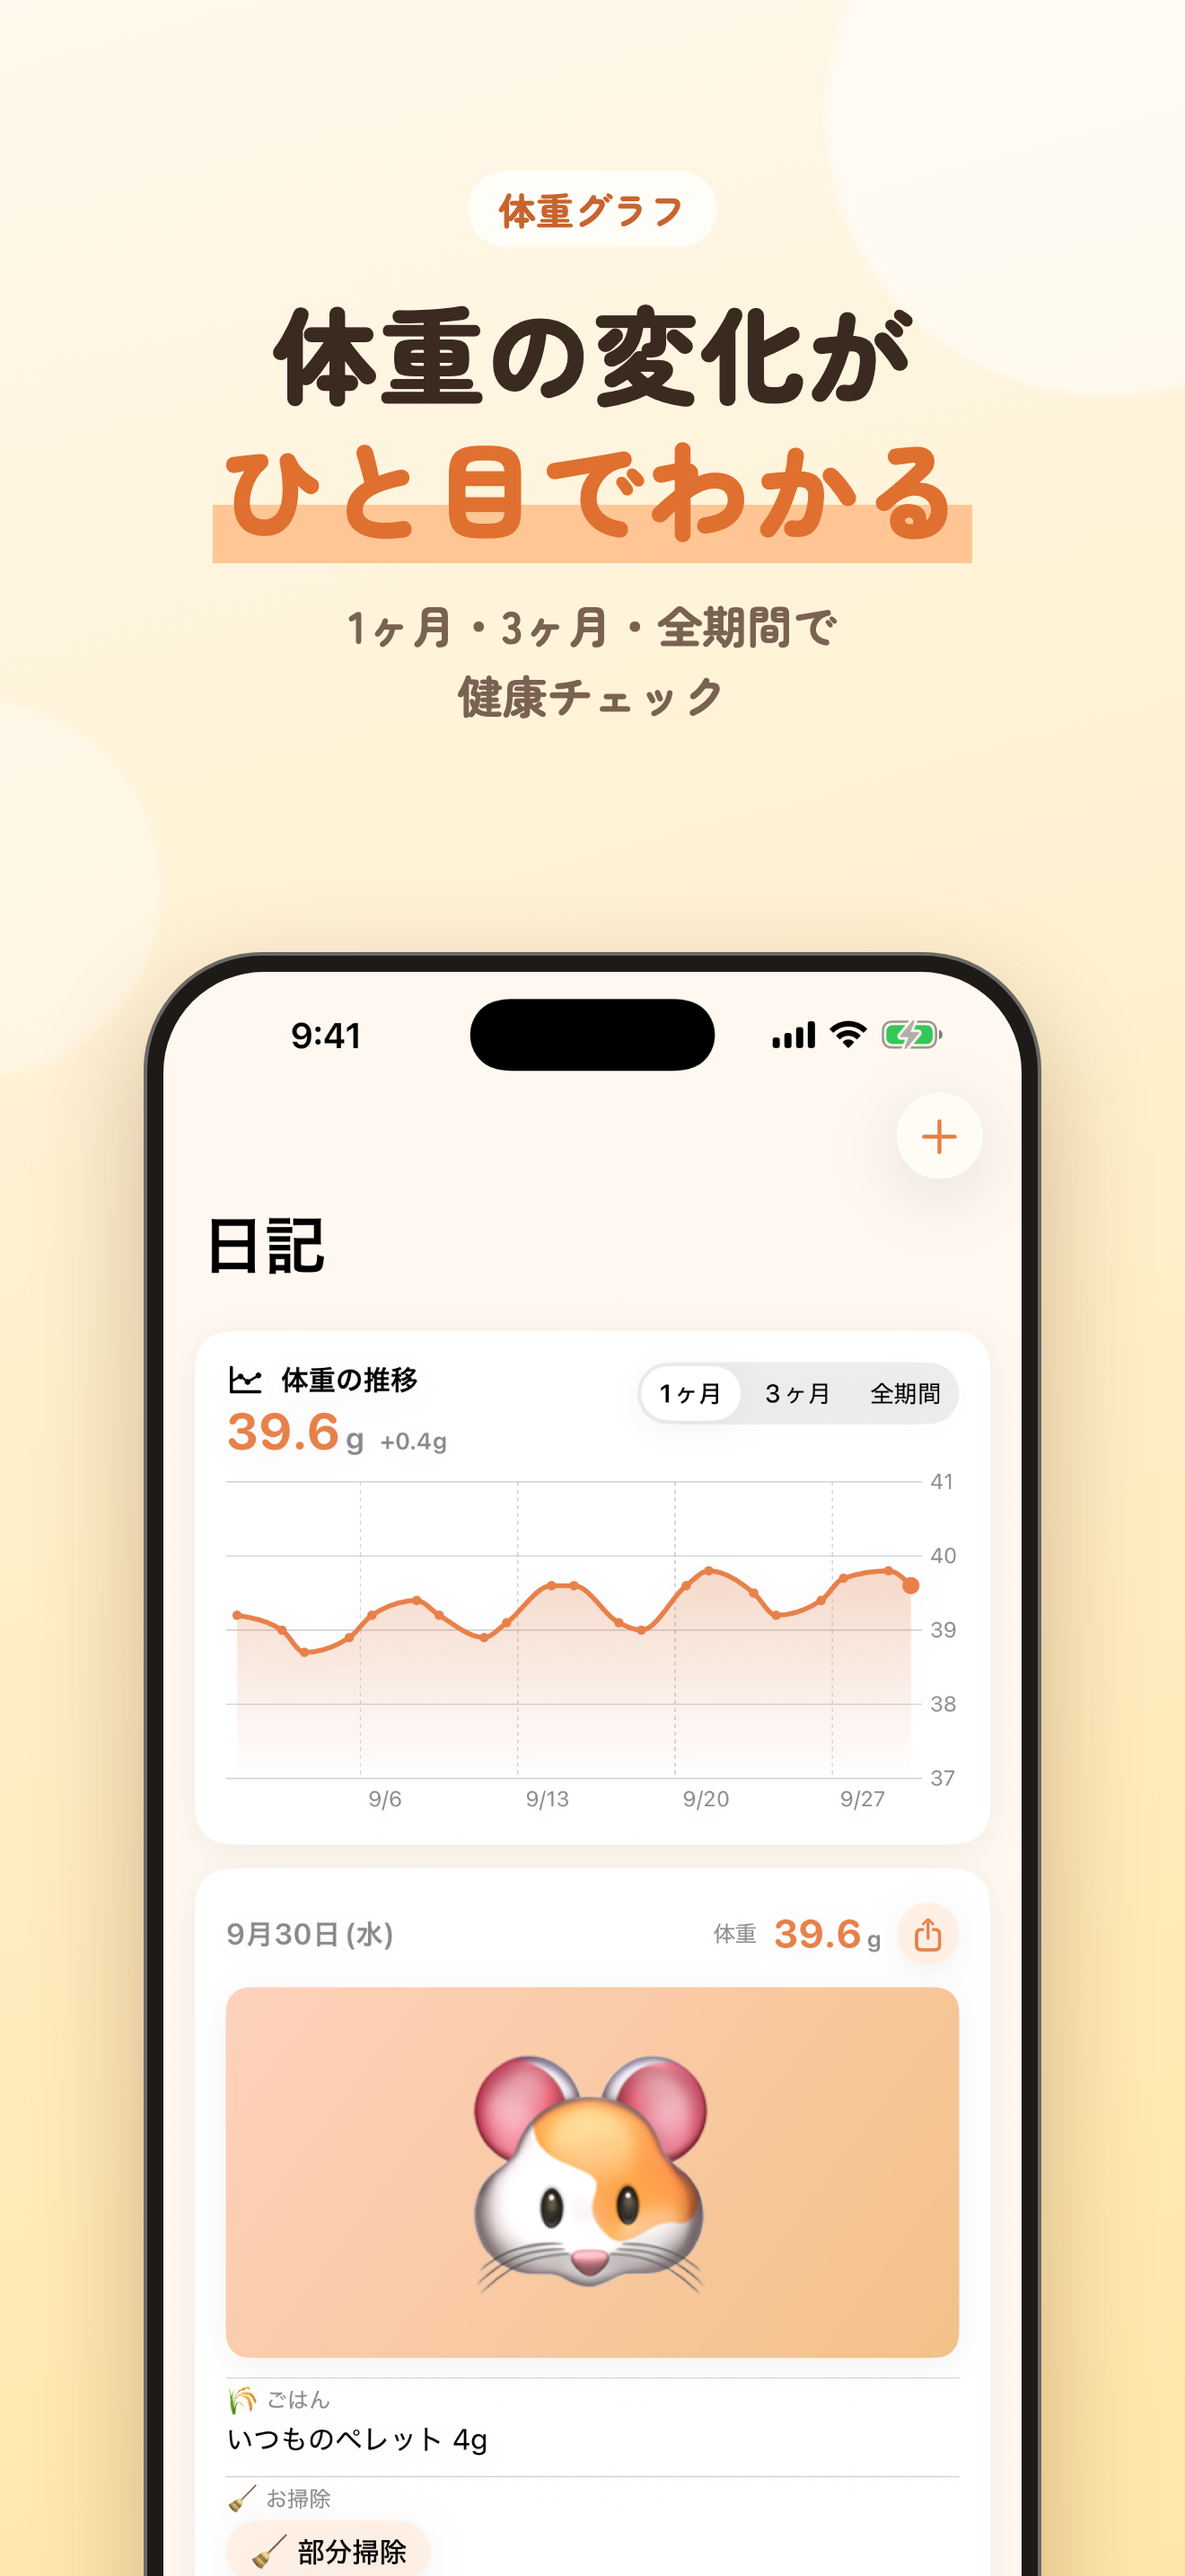
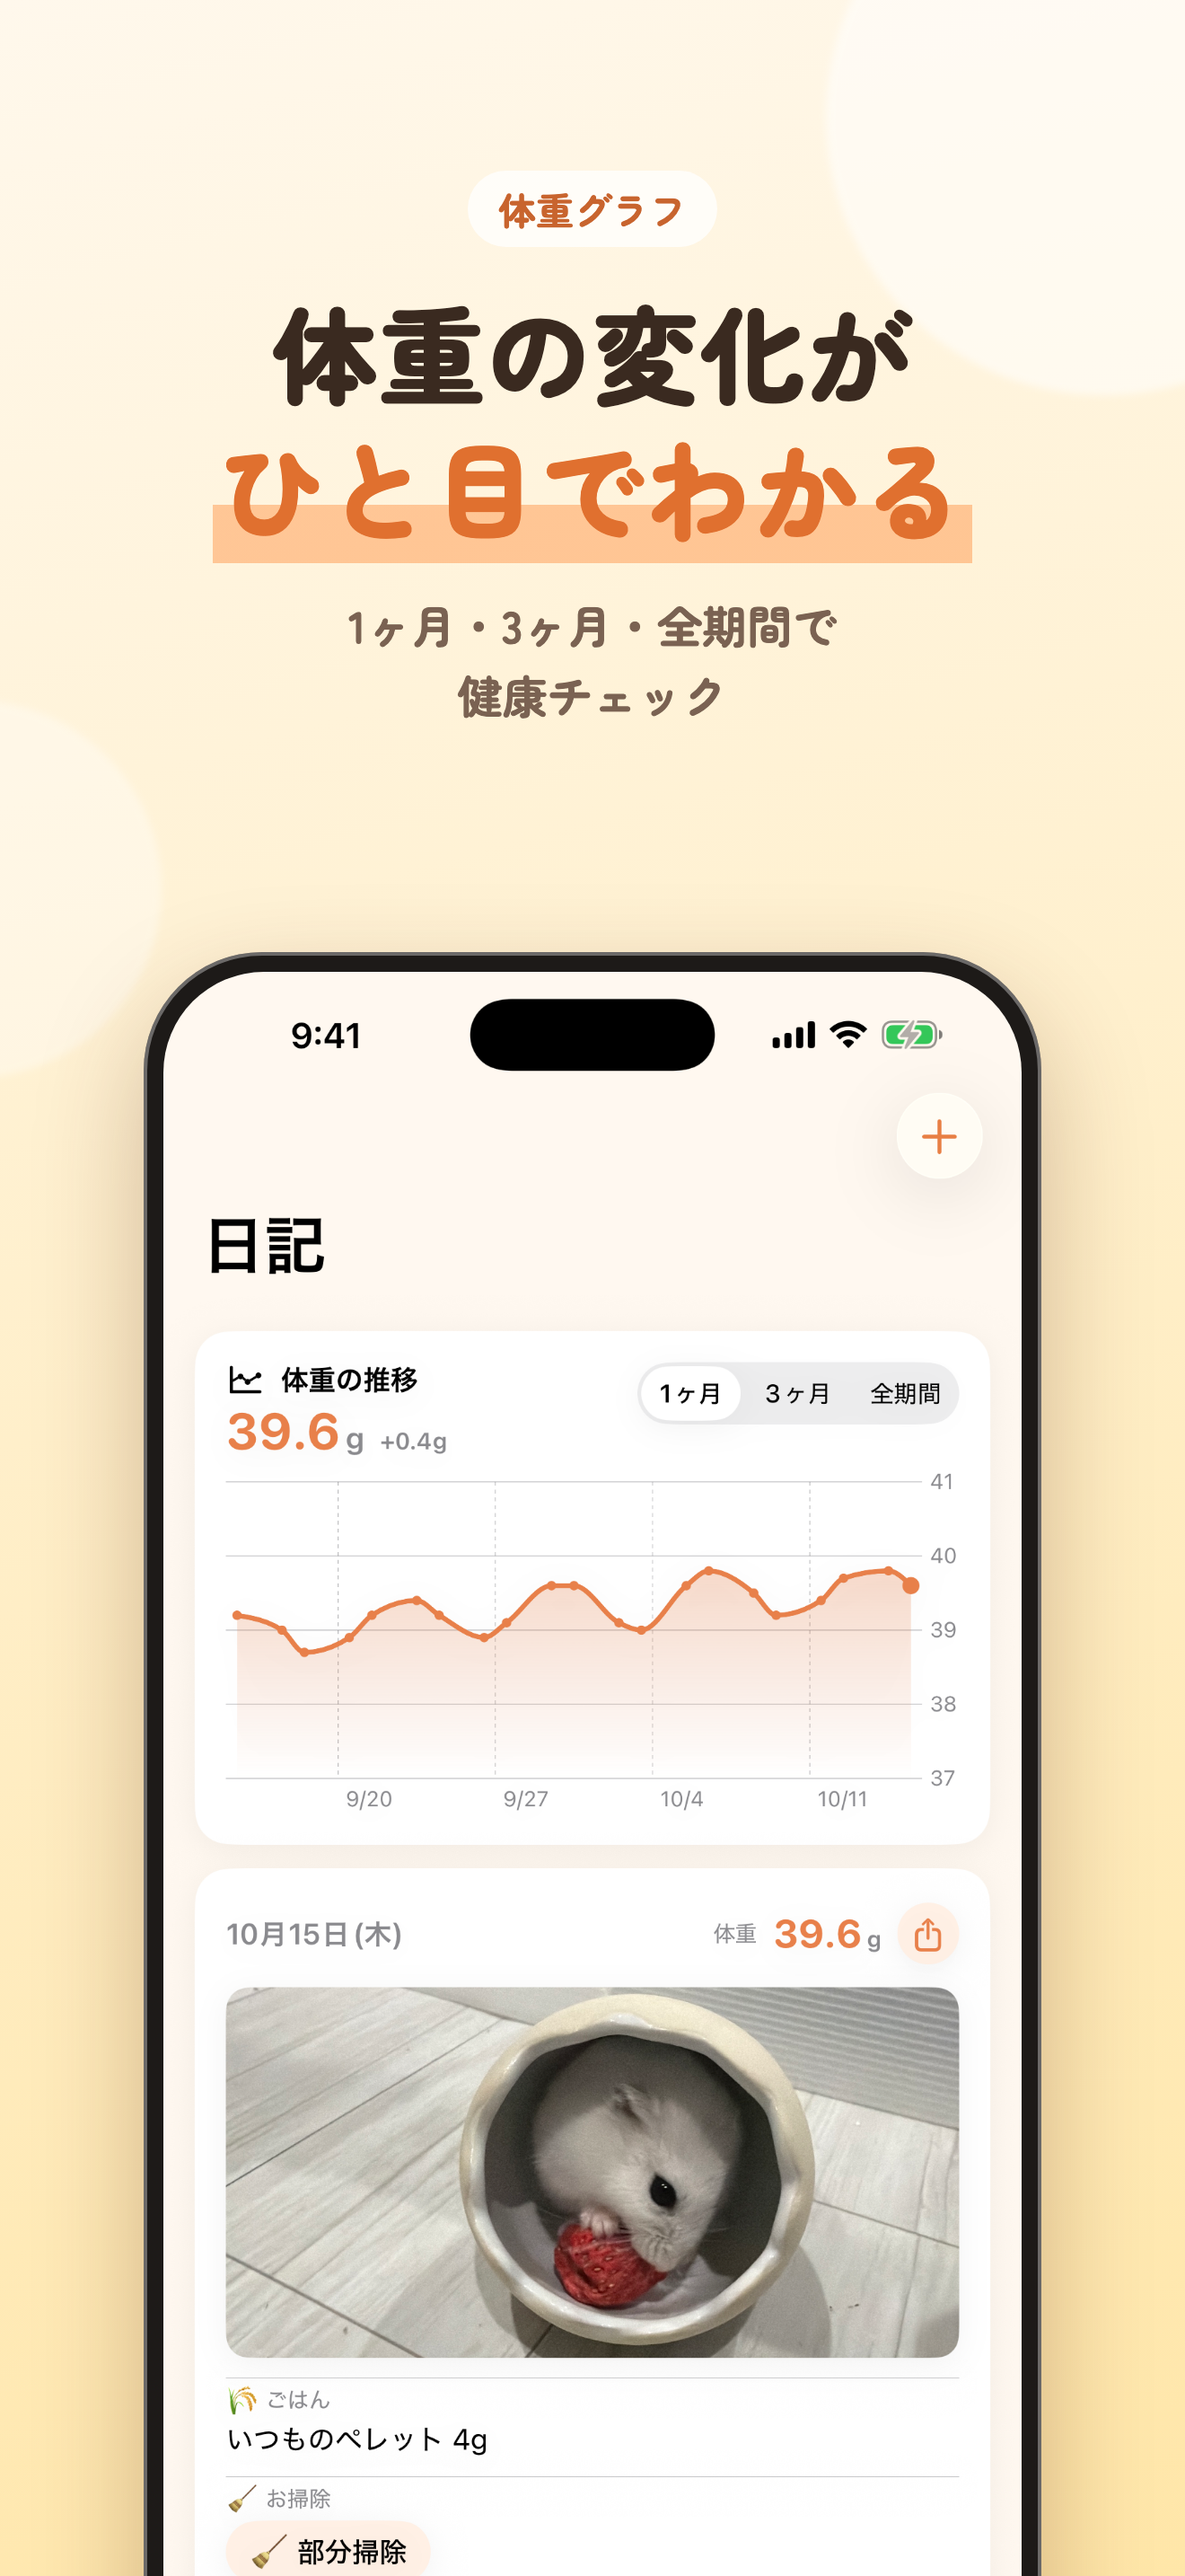
HamuhamuDiary: ストアのスクショを 本物の ハムスターの 写真で 撮りなおす
-demoPhotos で 渡した フォルダの 写真を デモに 使えるようにし、
写真の ある日の メモを 写真に 合わせた。写真は 位置情報を 消して 縮めてある。

Changed region(s): [[0.1864, 0.7448, 0.8076, 0.931], [0.5591, 0.6827, 0.5902, 0.7137], [0.3106, 0.6827, 0.3417, 0.7137]]

diff --git a/Apps/HamuhamuDiary/HamuhamuDiary/Sources/Services/Launch.swift b/Apps/HamuhamuDiary/HamuhamuDiary/Sources/Services/Launch.swift
@@ -16,6 +16,8 @@ enum Launch {
     static var showShareCard: Bool { args.contains("-showShareCard") }
     /// 起動時に選択するタブ（"home" / "diary" / "profile" / "settings"）。
     static var startTab: String? { value(after: "-startTab") }
+    /// デモ写真に使う本物の写真のフォルダ（Mac 側のパス。`Store/screenshots/photos`）。無ければ絵文字の画像で代用する。
+    static var demoPhotos: String? { value(after: "-demoPhotos") }
 
     private static func value(after flag: String) -> String? {
         guard let i = args.firstIndex(of: flag), i + 1 < args.count else { return nil }
@@ -30,6 +32,13 @@ enum Launch {
         "手のひらでお昼寝してくれた😴",
         "はじめて名前を呼んだら出てきた！",
         "", "",
+    ]
+    /// 写真のある日のメモ（`Store/screenshots/photos/memory-N.jpg` の中身に合わせてある）。
+    private static let photoMemos = [
+        0: "いちごをもらってごきげん🍓",
+        4: "ブランケットからひょっこり",
+        9: "おうちでぐっすりお昼寝😴",
+        15: "たまごハウスがお気に入り🥚",
     ]
     private static let foods = ["いつものペレット 4g", "ペレット 4g\nブロッコリー", "シードミックス 5g", "ペレット 4g\nにんじん"]
     private static let cleanings: [[String]] = [["partial"], ["toilet_sand"], [], ["partial", "water_bottle"], [], ["full_wash", "bedding"]]
@@ -47,10 +56,9 @@ enum Launch {
         context.insert(HamsterProfile(
             name: String(localized: "もち"), species: "ジャンガリアンハムスター",
             birthDate: daysAgo(290), welcomeDate: daysAgo(230),
-            photoPath: demoPhoto(named: "demo-avatar", hue: 0.07)
+            photoPath: demoPhoto(named: "demo-avatar", real: "avatar", hue: 0.07)
         ))
 
-        let photoDays: Set<Int> = [0, 4, 9, 15]
         for i in 0..<80 {
             // 少しずつ増えて落ち着く体重カーブ＋小さな揺らぎ。
             let base = 34 + 6 * (1 - exp(-Double(80 - i) / 30))
@@ -60,8 +68,8 @@ enum Launch {
             context.insert(DiaryRecord(
                 key: "demo-\(i)", date: date, weight: i % 3 == 2 ? nil : weight,
                 food: foods[i % foods.count], cleaningKeys: cleanings[i % cleanings.count],
-                memo: memos[i % memos.count],
-                photoPath: photoDays.contains(i) ? demoPhoto(named: "demo-\(i)", hue: 0.05 + Double(i) * 0.01) : nil,
+                memo: photoMemos[i] ?? memos[i % memos.count],
+                photoPath: photoMemos[i] == nil ? nil : demoPhoto(named: "demo-\(i)", real: "memory-\(i)", hue: 0.05 + Double(i) * 0.01),
                 createdAt: created, updatedAt: created
             ))
         }
@@ -73,8 +81,11 @@ enum Launch {
         try? context.save()
     }
 
-    /// 写真の代わりのやわらかいグラデーション画像（本物のハムスター写真は `Store/` の手順で差し替える）。
-    private static func demoPhoto(named name: String, hue: Double) -> String? {
+    /// デモの写真。`-demoPhotos` のフォルダに `<real>.jpg` があればそれを、無ければやわらかいグラデーション画像を使う。
+    private static func demoPhoto(named name: String, real: String, hue: Double) -> String? {
+        if let dir = demoPhotos, let data = try? Data(contentsOf: URL(filePath: dir).appending(path: "\(real).jpg")) {
+            return save(data, named: name)
+        }
         let size = CGSize(width: 1200, height: 900)
         let image = UIGraphicsImageRenderer(size: size).image { ctx in
             let colors = [
@@ -90,6 +101,10 @@ enum Launch {
             text.draw(at: CGPoint(x: (size.width - textSize.width) / 2, y: (size.height - textSize.height) / 2), withAttributes: [.font: font])
         }
         guard let data = image.jpegData(compressionQuality: 0.85) else { return nil }
+        return save(data, named: name)
+    }
+
+    private static func save(_ data: Data, named name: String) -> String? {
         let dir = PhotoStore.documents.appending(path: PhotoStore.folder)
         try? FileManager.default.createDirectory(at: dir, withIntermediateDirectories: true)
         try? data.write(to: dir.appending(path: "\(name).jpg"))
